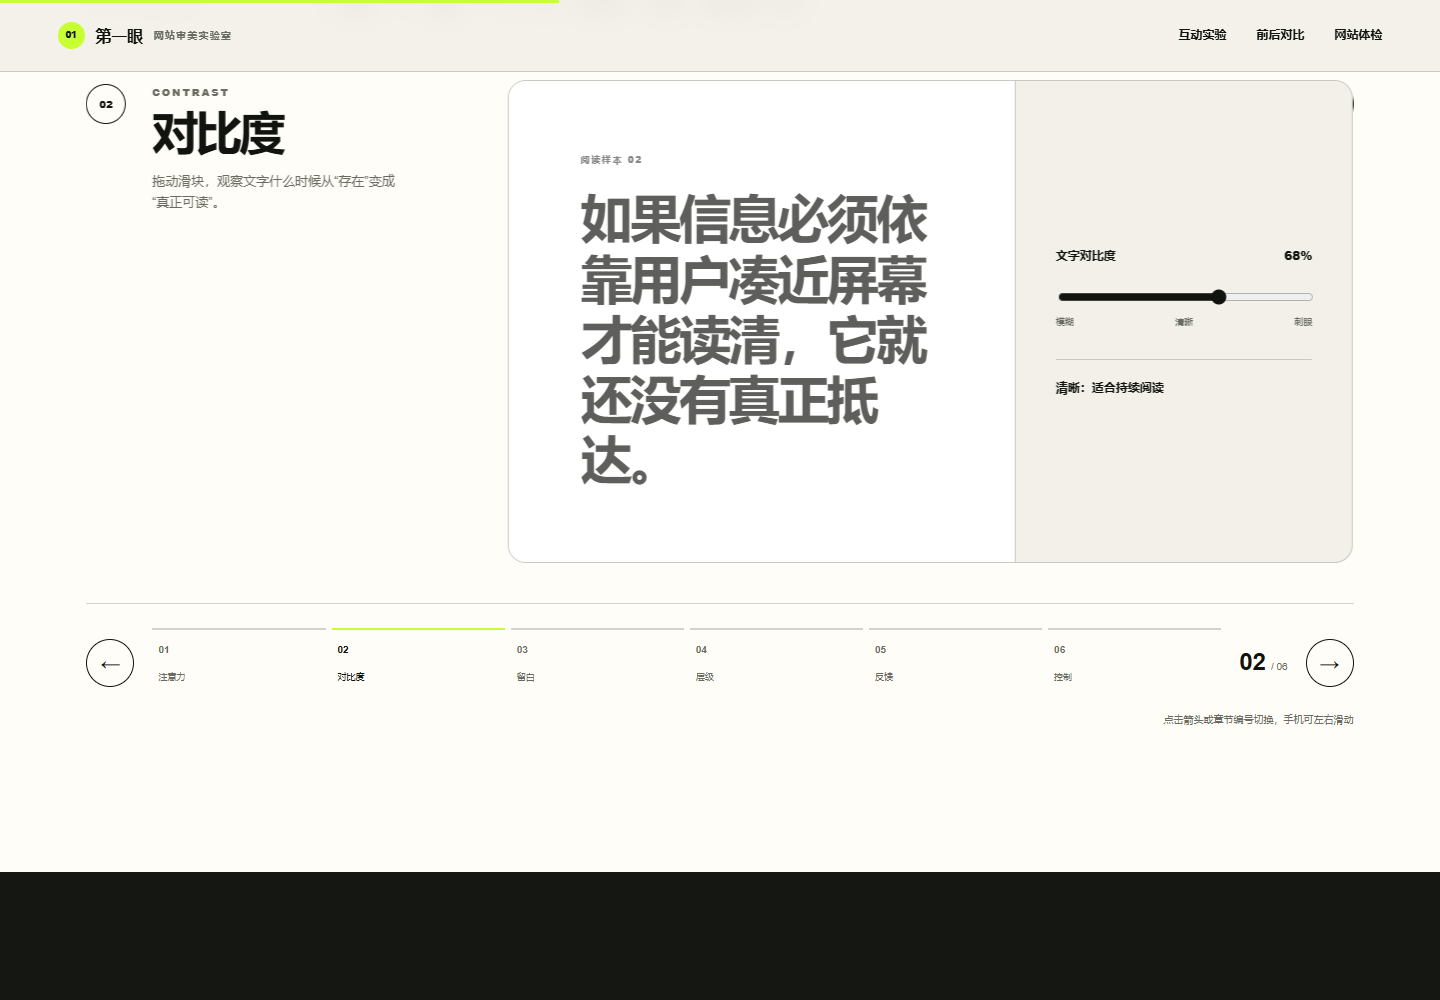
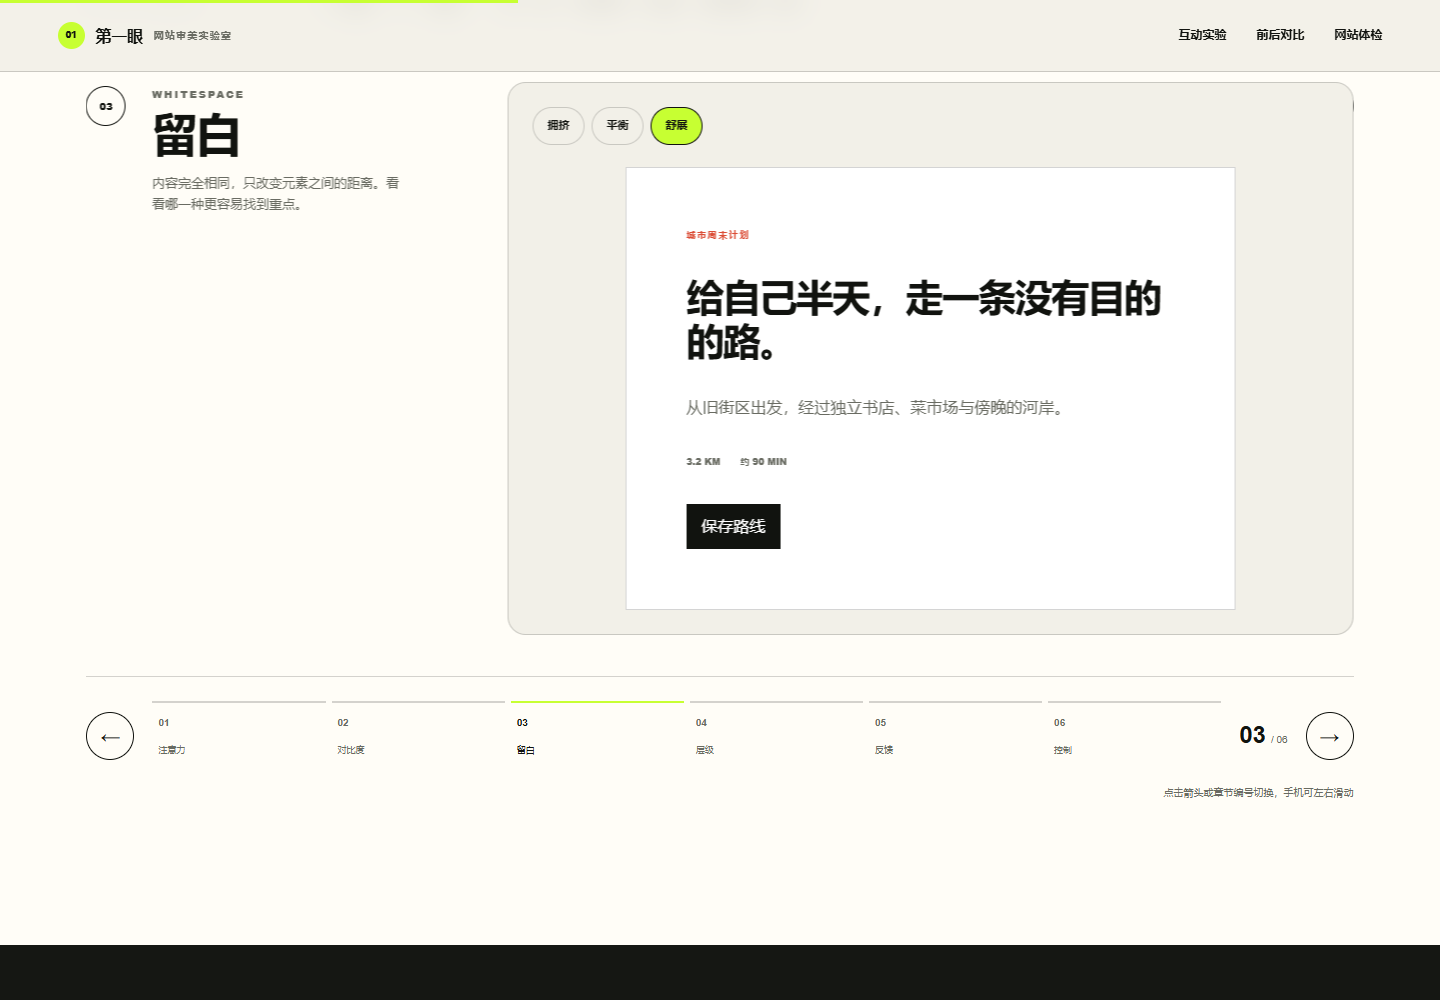
Fix lab clipping and make audit results actionable

diff --git a/style.css b/style.css
@@ -41,6 +41,7 @@ button:focus-visible, a:focus-visible, input:focus-visible { outline: 3px solid 
 .menu-toggle { display: none; border: 0; background: transparent; font-size: 12px; font-weight: 700; }
 
 .section-pad { padding: clamp(86px,10vw,150px) clamp(22px,6vw,96px); }
+#labs, #case, #audit { scroll-margin-top: 78px; }
 .section-rule { border-top: 1px solid var(--line); }
 .section-no, .eyebrow, .lab-tag { margin: 0; color: var(--muted); font-size: 10px; font-weight: 800; letter-spacing: .2em; text-transform: uppercase; }
 .section-heading { display: grid; grid-template-columns: minmax(100px, .35fr) 1.1fr .65fr; gap: 30px; align-items: end; margin-bottom: clamp(66px,8vw,120px); }
@@ -84,7 +85,7 @@ button:focus-visible, a:focus-visible, input:focus-visible { outline: 3px solid 
 .labs { overflow: hidden; background: var(--white); }
 .labs .section-heading { margin-bottom: clamp(44px,5vw,72px); }
 .lab-carousel { position: relative; min-width: 0; }
-.lab-viewport { overflow: hidden; min-width: 0; transition: height .48s var(--ease); }
+.lab-viewport { overflow: hidden; min-width: 0; }
 .lab-track { display: flex; align-items: flex-start; width: 100%; touch-action: pan-y; transition: transform .62s var(--ease); will-change: transform; }
 .lab { display: grid; flex: 0 0 100%; grid-template-columns: minmax(220px,.55fr) 1.45fr; gap: clamp(32px,7vw,110px); min-width: 0; padding: 0 0 8px; }
 .lab[aria-hidden="true"] { pointer-events: none; }
@@ -107,8 +108,8 @@ button:focus-visible, a:focus-visible, input:focus-visible { outline: 3px solid 
 .lab-position strong { font-size: 24px; line-height: 1; }.lab-position span { color: var(--muted); font-size: 10px; }.lab-position small { display: none; }
 .swipe-hint { margin: 14px 0 0; color: var(--muted); font-size: 10px; text-align: right; }
 
-.attention-stage { position: relative; min-height: 430px; }
-.test-page { position: absolute; inset: 0; padding: clamp(28px,5vw,70px); overflow: hidden; background: #ebe1ff; }
+.attention-stage { position: relative; }
+.test-page { position: relative; min-height: 430px; padding: clamp(28px,5vw,70px); overflow: hidden; background: #ebe1ff; }
 .test-page h4 { position: relative; z-index: 2; max-width: 620px; margin: 28px 0 20px; font-size: clamp(38px,5vw,78px); line-height: .96; letter-spacing: -.06em; }
 .test-page > p:not(.test-kicker) { position: relative; z-index: 2; max-width: 380px; margin: 0 0 28px; font-size: 13px; }
 .test-kicker { position: relative; z-index: 2; margin: 0; font-size: 10px; font-weight: 800; letter-spacing: .18em; }
@@ -123,6 +124,7 @@ button:focus-visible, a:focus-visible, input:focus-visible { outline: 3px solid 
 .attention-cover span { font-size: 110px; font-weight: 800; line-height: 1; }
 .attention-cover p { color: rgba(255,255,255,.6); font-size: 12px; }
 .attention-stage.is-finished .test-page { filter: blur(18px); opacity: .18; }
+.attention-stage.is-finished::after { content: "画面已隐藏 · 凭第一印象作答"; position: absolute; inset: 0; display: grid; place-items: center; padding: 24px; color: var(--ink); font-size: 13px; font-weight: 800; letter-spacing: .08em; text-align: center; }
 .attention-controls { padding: 24px; border-top: 1px solid var(--line); background: var(--white); }
 .answer-panel > p { margin: 0 0 12px; font-size: 12px; font-weight: 800; }
 .choice-row { display: flex; flex-wrap: wrap; gap: 8px; }
@@ -221,6 +223,12 @@ input[type="range"] { width: 100%; accent-color: var(--ink); }
 .case-findings div { display: flex; gap: 18px; padding: 22px 0; border-right: 1px solid rgba(255,255,255,.18); }.case-findings div:not(:first-child) { padding-left: 22px; }.case-findings div:last-child { border-right: 0; }.case-findings b { color: var(--acid); font-size: 10px; }.case-findings span { color: rgba(255,255,255,.65); font-size: 11px; }
 
 .audit { background: var(--paper); }
+.audit .section-heading h2 { font-size: clamp(48px,5.6vw,88px); line-height: .98; }
+.audit-benefits { display: grid; grid-template-columns: repeat(3,1fr); margin: -54px 0 70px; border-top: 1px solid var(--line); border-bottom: 1px solid var(--line); }
+.audit-benefits > div { display: grid; grid-template-columns: auto 1fr; gap: 18px; padding: 24px; border-right: 1px solid var(--line); }
+.audit-benefits > div:first-child { padding-left: 0; }.audit-benefits > div:last-child { border-right: 0; }
+.audit-benefits b { color: var(--red); font-size: 10px; }.audit-benefits span,.audit-benefits strong,.audit-benefits small { display: block; }
+.audit-benefits strong { margin-bottom: 5px; font-size: 14px; }.audit-benefits small { color: var(--muted); font-size: 10px; }
 .audit-grid { display: grid; grid-template-columns: 1.15fr .85fr; gap: clamp(30px,6vw,90px); align-items: start; }
 .audit-list { display: grid; border-top: 1px solid var(--line); }
 .audit-list label { display: grid; grid-template-columns: 30px 1fr; gap: 14px; align-items: center; padding: 20px 0; border-bottom: 1px solid var(--line); cursor: pointer; }
@@ -229,6 +237,12 @@ input[type="range"] { width: 100%; accent-color: var(--ink); }
 .audit-result { position: sticky; top: 110px; padding: clamp(32px,5vw,65px); border-radius: var(--radius); color: var(--white); background: var(--ink); }
 .audit-result > p:first-child { margin-top: 0; color: rgba(255,255,255,.5); font-size: 9px; font-weight: 800; letter-spacing: .2em; }
 .score-ring { display: flex; align-items: baseline; margin: 34px 0 26px; }.score-ring strong { font-size: clamp(80px,9vw,140px); line-height: .75; letter-spacing: -.08em; }.score-ring span { color: rgba(255,255,255,.4); font-size: 12px; }.audit-result h3 { margin: 0; font-size: 26px; }.audit-result > p:not(:first-child) { color: rgba(255,255,255,.6); font-size: 12px; }.audit-actions { display: flex; align-items: center; gap: 18px; margin-top: 35px; }.audit-actions .button { border-color: var(--white); }.text-button { border: 0; color: rgba(255,255,255,.55); background: transparent; text-decoration: underline; text-underline-offset: 4px; cursor: pointer; font-size: 11px; }
+.audit-priority { margin-top: 30px; padding-top: 22px; border-top: 1px solid rgba(255,255,255,.18); }
+.audit-priority > p { margin: 0 0 14px; color: var(--acid); font-size: 10px; font-weight: 800; letter-spacing: .14em; }
+.audit-priority ol { display: grid; gap: 12px; margin: 0; padding: 0; list-style: none; }
+.audit-priority li { display: grid; grid-template-columns: 24px 1fr; gap: 10px; }
+.audit-priority li > b { display: grid; place-items: center; width: 22px; height: 22px; border: 1px solid rgba(255,255,255,.35); border-radius: 50%; font-size: 8px; }
+.audit-priority li strong,.audit-priority li span { display: block; }.audit-priority li strong { margin-bottom: 3px; font-size: 12px; }.audit-priority li span { color: rgba(255,255,255,.56); font-size: 10px; line-height: 1.55; }
 
 .closing { display: grid; justify-items: start; color: var(--white); background: var(--red); }
 .closing h2 { max-width: 1000px; margin-top: 45px; }.closing > p:not(.section-no) { max-width: 610px; margin: 34px 0; font-size: 16px; }.closing .button { margin-top: 10px; }
@@ -244,6 +258,7 @@ input[type="range"] { width: 100%; accent-color: var(--ink); }
   .lab { grid-template-columns: 1fr; gap: 26px; }.lab-intro { position: static; }
   .contrast-panel, .response-panel { grid-template-columns: 1fr; }.range-control,.feedback-modes { border-left: 0; border-right: 0; border-top: 1px solid var(--line); }
   .audit-result { position: static; }
+  .audit-benefits { margin-top: -30px; }
 }
 
 @media (max-width: 640px) {
@@ -252,12 +267,13 @@ input[type="range"] { width: 100%; accent-color: var(--ink); }
   .section-pad { padding-top: 78px; padding-bottom: 78px; }
   .hero { min-height: auto; }.hero h1 { font-size: 20vw; }.hero h1 span { font-size: .68em; }.hero-actions { align-items: flex-start; flex-direction: column; }.hero-specimen { min-height: 430px; border-radius: 45% 45% 12px 12px; }.hero-stats { grid-template-columns: 1fr; }.hero-stats div { border-right: 0; border-bottom: 1px solid var(--line); padding-left: 0!important; }
   .section-heading h2, .manifesto h2, .closing h2 { font-size: clamp(46px,15vw,72px); }
+  .audit .section-heading h2 { font-size: clamp(46px,13vw,60px); line-height: 1; }
   .manifesto-layout { margin-top: 40px; }.labs.section-pad { padding-left: 16px; padding-right: 16px; }.lab { padding: 0; }.lab-intro { grid-template-columns: 40px 1fr; gap: 14px; }
-  .attention-stage { min-height: 390px; }.test-page { padding: 28px 24px; }.test-page h4 { margin-top: 60px; }.test-price { bottom: 5%; }.shape-one { width: 220px; height: 220px; }
+  .test-page { min-height: 430px; padding: 28px 24px; }.test-page h4 { margin-top: 60px; }.test-price { bottom: 5%; }.shape-one { width: 220px; height: 220px; }
   .contrast-copy { font-size: 32px; }.range-control,.feedback-modes,.save-demo { padding: 28px 22px; }.spacing-panel,.hierarchy-panel,.control-panel { padding: 14px; }.spacing-sample.is-airy { padding: 38px 24px; }.hierarchy-sample { padding: 32px 24px; min-height: 500px; }.hierarchy-sample h4 { font-size: 46px; }
   .response-panel { min-height: auto; }.feedback-modes legend { padding-top: 0; }
   .demo-dialog { width: 86%; padding: 28px 22px; }.case-page { min-height: 610px; }.case-page header nav { display: none; }.case-page header button { display: block; border: 0; background: transparent; }.case-main { grid-template-columns: 1fr; min-height: 550px; padding: 38px 24px; align-content: start; }.case-copy h3 { font-size: 52px; }.case-object { position: absolute; width: 65%; right: -8%; bottom: 2%; }.case-page.is-before .case-object { width: 78%; top: 29%; }.case-page.is-before .case-price { bottom: 7%; }.case-findings { grid-template-columns: 1fr; }.case-findings div { border-right: 0; border-bottom: 1px solid rgba(255,255,255,.18); padding-left: 0!important; }
-  .audit-list span { display: block; }.audit-list small { display: block; margin-top: 4px; text-align: left; }.site-footer { flex-direction: column; }
+  .audit-benefits { grid-template-columns: 1fr; margin: -26px 0 46px; }.audit-benefits > div { padding: 18px 0; border-right: 0; border-bottom: 1px solid var(--line); }.audit-benefits > div:last-child { border-bottom: 0; }.audit-list span { display: block; }.audit-list small { display: block; margin-top: 4px; text-align: left; }.site-footer { flex-direction: column; }
   .lab-carousel-controls { grid-template-columns: auto 1fr auto; gap: 10px; }.lab-pagination { display: flex; justify-content: center; gap: 7px; }.lab-pagination button { width: 10px; height: 10px; padding: 0; border-radius: 50%; background: var(--line); }.lab-pagination button::before,.lab-pagination button::after,.lab-pagination b,.lab-pagination span { display: none; }.lab-pagination button.is-active { background: var(--acid); box-shadow: 0 0 0 1px var(--ink); }.lab-position { display: none; }.lab-arrow { width: 44px; height: 44px; }.swipe-hint { text-align: center; }
 }
 

diff --git a/app.js b/app.js
@@ -50,7 +50,7 @@
   let swipeStartY = 0;
 
   function syncLabHeight() {
-    labViewport.style.height = `${labSlides[activeLab].offsetHeight}px`;
+    labViewport.style.height = `${Math.ceil(labSlides[activeLab].getBoundingClientRect().height)}px`;
   }
 
   function showLab(index, focus = false) {
@@ -95,7 +95,8 @@
     if (Math.abs(deltaX) > 48 && Math.abs(deltaX) > Math.abs(deltaY)) showLab(activeLab + (deltaX < 0 ? 1 : -1));
   }, { passive: true });
   addEventListener('resize', syncLabHeight);
-  new ResizeObserver(syncLabHeight).observe(labSlides[0]);
+  const labResizeObserver = new ResizeObserver(() => requestAnimationFrame(syncLabHeight));
+  labSlides.forEach(slide => labResizeObserver.observe(slide));
   showLab(0);
 
   const attentionCover = $('#attentionCover');
@@ -257,6 +258,17 @@
   const auditLevel = $('#auditLevel');
   const auditAdvice = $('#auditAdvice');
   const scoreRing = $('#scoreRing');
+  const auditPriorityList = $('#auditPriorityList');
+  const auditTasks = {
+    audience: ['对象明确', '在第一屏补上一句话：这是为谁提供什么帮助。'],
+    message: ['核心表达', '删减第一屏的并列重点，只保留一个核心承诺。'],
+    hierarchy: ['层级明确', '把标题、说明和主要按钮拉开明显的大小与位置差异。'],
+    contrast: ['对比清晰', '提高正文和按钮对比度，并检查浅色文字是否真正可读。'],
+    spacing: ['留白有效', '合并重复信息，为标题、正文和操作留出稳定间距。'],
+    response: ['操作有回应', '为点击、加载、完成和失败补上即时状态反馈。'],
+    control: ['用户可控制', '为不可逆操作增加取消、返回或撤销入口。'],
+    mobile: ['移动端清楚', '用手机完成一次真实任务，修正溢出、遮挡和过小按钮。']
+  };
 
   function updateAudit(save = true) {
     const checked = auditChecks.filter(input => input.checked);
@@ -264,9 +276,25 @@
     auditScore.textContent = score;
     scoreRing.style.setProperty('--score', `${score * 3.6}deg`);
 
+    const missing = auditChecks.filter(input => !input.checked);
+    auditPriorityList.replaceChildren();
+    const priorityItems = missing.slice(0, 3);
+    if (priorityItems.length === 0) {
+      const item = document.createElement('li');
+      item.innerHTML = '<b>✓</b><div><strong>基础项全部通过</strong><span>下一步邀请一位首次访问者完成真实任务，验证你的判断。</span></div>';
+      auditPriorityList.append(item);
+    } else {
+      priorityItems.forEach((input, index) => {
+        const [title, task] = auditTasks[input.value];
+        const item = document.createElement('li');
+        item.innerHTML = `<b>${String(index + 1).padStart(2, '0')}</b><div><strong>${title}</strong><span>${task}</span></div>`;
+        auditPriorityList.append(item);
+      });
+    }
+
     if (score === 0) {
-      auditLevel.textContent = '等待体检';
-      auditAdvice.textContent = '先完成左侧检查，再决定最值得调整的一个问题。';
+      auditLevel.textContent = '先从第一项开始';
+      auditAdvice.textContent = '当前没有通过项。先完成右侧第一条任务，再回来重新检查。';
     } else if (score < 50) {
       auditLevel.textContent = '重点需要重建';
       auditAdvice.textContent = '先处理服务对象、核心表达和第一屏层级，不要急着增加动画。';

diff --git a/index.html b/index.html
@@ -322,9 +322,15 @@
 
     <section class="audit section-pad" id="audit" aria-labelledby="audit-title">
       <div class="section-heading reveal">
-        <p class="section-no">08 / 带走一份结果</p>
-        <h2 id="audit-title">给你的网站<br>做一次体检。</h2>
-        <p>勾选已经做到的项目，系统会给出分数与下一步优先级。结果只保存在当前设备。</p>
+        <p class="section-no">08 / 一分钟决策</p>
+        <h2 id="audit-title">先改哪一处，<br>这里直接告诉你。</h2>
+        <p>勾选已经做到的 8 项，未完成项会自动变成最多 3 条修改任务，帮你停止凭感觉反复调整。</p>
+      </div>
+
+      <div class="audit-benefits reveal" aria-label="检查结果包含的内容">
+        <div><b>01</b><span><strong>发现卡点</strong><small>看清用户会在哪里困惑</small></span></div>
+        <div><b>02</b><span><strong>排定顺序</strong><small>只保留最值得先改的三项</small></span></div>
+        <div><b>03</b><span><strong>留下清单</strong><small>保存进度，也可以直接打印</small></span></div>
       </div>
 
       <div class="audit-grid reveal">
@@ -340,12 +346,16 @@
         </form>
 
         <aside class="audit-result" aria-live="polite">
-          <p>网站审美体检</p>
+          <p>你的网站修改清单</p>
           <div class="score-ring" id="scoreRing"><strong id="auditScore">0</strong><span>/ 100</span></div>
-          <h3 id="auditLevel">等待体检</h3>
-          <p id="auditAdvice">先完成左侧检查，再决定最值得调整的一个问题。</p>
+          <h3 id="auditLevel">先从第一项开始</h3>
+          <p id="auditAdvice">右侧会根据未完成项，列出最先值得修改的三件事。</p>
+          <div class="audit-priority">
+            <p>现在先改什么</p>
+            <ol id="auditPriorityList"></ol>
+          </div>
           <div class="audit-actions">
-            <button class="button button-dark" id="printResult" type="button">打印结果</button>
+            <button class="button button-dark" id="printResult" type="button">打印修改清单</button>
             <button class="text-button" id="resetAudit" type="button">重新检查</button>
           </div>
         </aside>

diff --git a/README.md b/README.md
@@ -1,6 +1,6 @@
 # 第一眼｜网站审美实验室
 
-一个不依赖外部图片的互动学习网站。访问者可以通过六个实验，直接体验对比度、留白、视觉层级、响应反馈和用户控制如何影响信息传达，并完成一份保存在本地设备的网站体检。
+一个不依赖外部图片的互动学习网站。访问者可以通过六个实验，直接体验对比度、留白、视觉层级、响应反馈和用户控制如何影响信息传达，并得到一份带修改优先级的网站检查清单。
 
 ## 在线预览
 
@@ -22,8 +22,8 @@ https://rikka060921.github.io/first-look-web-lab/
 - 页面使用正常滚动浏览，不接管用户滚轮。
 - 六个实验通过左右箭头、章节编号、键盘方向键或手机左右滑动切换。
 - 每个实验均可独立操作并立即查看结果。
-- 网站体检结果保存在当前设备，可随时清空。
-- 点击“打印结果”可获得适合打印或另存为 PDF 的体检页。
+- 网站检查结果保存在当前设备，并根据未完成项自动列出最多三条优先修改任务。
+- 点击“打印修改清单”可获得适合打印或另存为 PDF 的结果页。
 
 ## 文件结构
 

diff --git a/交付清单.md b/交付清单.md
@@ -7,8 +7,8 @@
 - 六个互动实验
 - 实验左右滑动与章节导航
 - 调整前后对比案例
-- 网站体检与评分功能
-- 体检结果打印版
+- 网站检查、评分与优先任务排序功能
+- 修改清单打印版
 
 ## 项目材料
 
@@ -30,6 +30,6 @@
 - 保存演示能够展示四种反馈方式
 - 用户控制实验支持两种操作逻辑
 - 调整前后案例使用相同内容
-- 网站体检能够计分、保存、清空和打印
+- 网站检查能够计分、保存、清空、列出优先任务并打印
 - 页面在桌面端和移动端均无横向溢出
 - 项目不依赖外部图片或在线资源

diff --git a/内容与设计说明.md b/内容与设计说明.md
@@ -25,8 +25,8 @@
 
 - 页面使用浏览器原生滚动，不强制逐屏切换。
 - 六个实验集中在同一个横向章节中，可以通过箭头、章节编号、键盘或触屏手势自由切换。
-- 声明网站体检结果只保存在当前设备。
-- 支持清空结果、打印结果和返回顶部。
+- 网站检查结果只保存在当前设备，并把未完成项转为最多三条优先修改任务。
+- 支持清空结果、打印修改清单和返回顶部。
 - 对减少动态效果的系统设置提供支持。
 
 ## 交付检查
